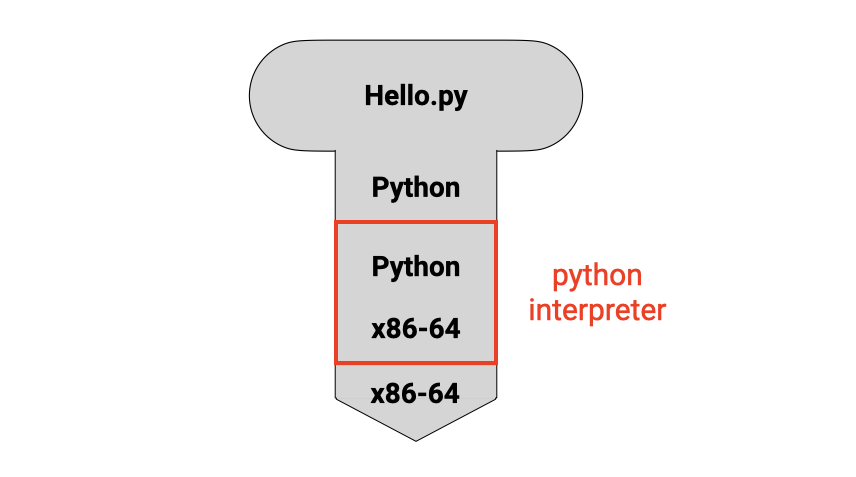
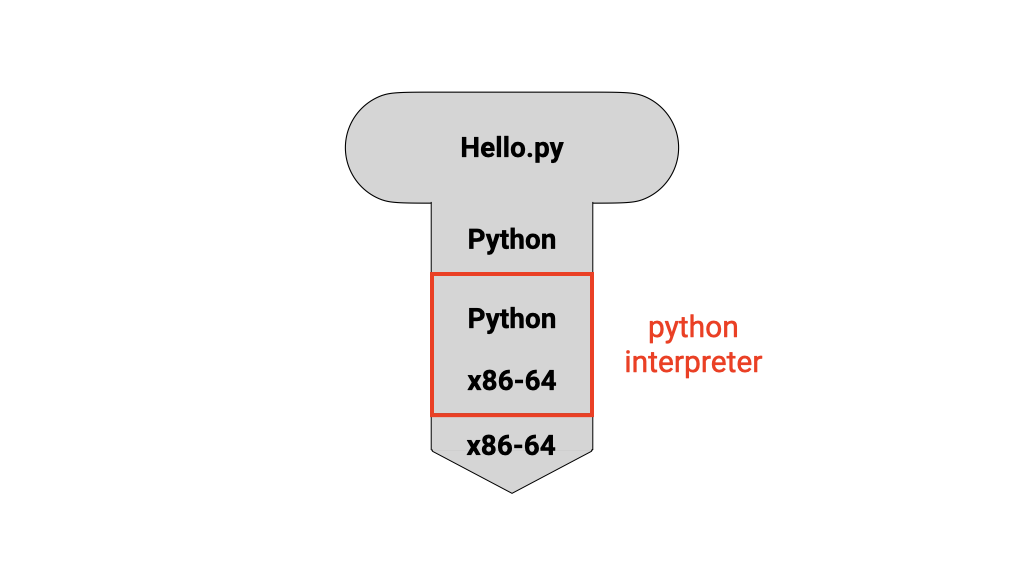
Fixed typos in 01-Compiler.md

Changed region(s): [[0.2734, 0.0587, 0.6986, 0.9392], [0.6075, 0.5577, 0.7897, 0.6751]]

diff --git a/docs/01-compiler.md b/docs/01-compiler.md
@@ -12,8 +12,8 @@ T-diagrams consist of combinations of the following four components:
 
 - Programs which are implemented in a particular language (i.e. `Java`, `python`, `c/c++`)
 - Interpreters for a language (**A**) which are implemented in a language (**B**)
-- Language (**A**) to Language (**B**) Compilers which are implemented in a language **C**
-- Physical machines implemented a particular language (i.e. x86-64, ARM-64)
+- Language (**A**) to language (**B**) Compilers which are implemented in a language **C**
+- Physical machines implementing a particular language (i.e. x86-64, ARM-64)
 
 These components are represented in T-diagrams with the following diagrams:
 
@@ -21,7 +21,7 @@ These components are represented in T-diagrams with the following diagrams:
 
 We can treat these components like "puzzle pieces" and build diagrams to describe various execution, compilation, or interpreted processes.  For example, in the diagram below, a python script `Hello.py` is being interpreted by the python interpreter running on the x86-64 architecture.
 
-<img src="figures/compiler/compiler.002.png", width="400">
+<img src="figures/compiler/compiler.002.png" width="800">
 
 *Note:* In order for the diagram to be valid, adjacent connected diagram components need to match. This can be seen in the diagram below (highlighted with blue boxes).
 
@@ -56,7 +56,7 @@ $ javac Hello.java
 ```
 into the command line.  `javac` is the Java compiler.  This step will either lead to the bytecode called `Hello.class` being created or spew out some errors.  This process can be seen in the figure below, where the `Hello.java` program is compiled from Java to the JVM language (bytecode). The Java compiler `javac` in this diagram is implemented in the x86-64 machine language.
 
-<img src="figures/compiler/compiler.003.png">
+<img src="figures/compiler/compiler.003.png" width="800">
 
 Assuming that there is no error in compilation, we can now run
 ```
@@ -64,7 +64,7 @@ $ java Hello
 ```
 to invoke the JVM `java` and execute the bytecode contains in `Hello.class`. This can be seen in the figure below, where the `Hello.class` program is interpreted from JVM language (bytecode) to the x86-64 machine language. The Java Virtual Machine `java` in this diagram is implemented in the x86-64 machine language.
 
-<img src="figures/compiler/compiler.004.png">
+<img src="figures/compiler/compiler.004.png"  width="800">
 
 [^1]: The `$` represents the command prompt in a shell and you do not need to type this.
 
@@ -76,7 +76,7 @@ Beginners tend to confuse between `javac` and `java`, and whether to add the ext
 
 Java (version 8 or later) comes with an interpreter called `jshell` that can read in Java statements, evaluate them, and print the results[^3]. `jshell` is useful for learning and experimenting about Java.   This can be seen in the figure below, where the `Hello.java` program is interpreted from Java directly to the x86-64 machine language. The Java interpreter `jshell` in this diagram is implemented in the x86-64 machine language.
 
-<img src="figures/compiler/compiler.005.png">
+<img src="figures/compiler/compiler.005.png" width="800">
 
 To run `jshell` in interactive mode, we type
 ```
